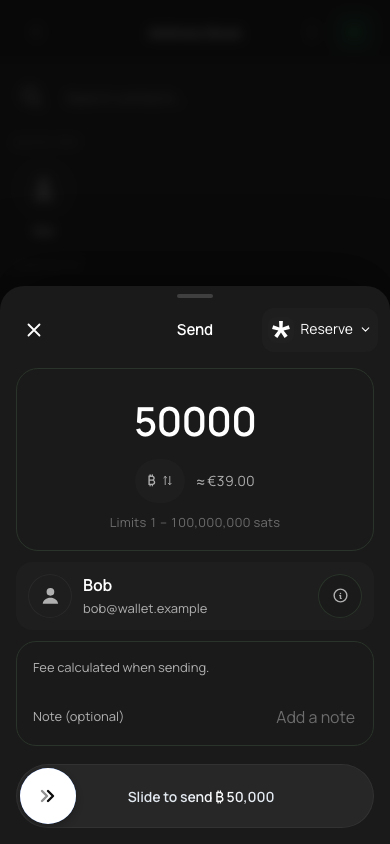
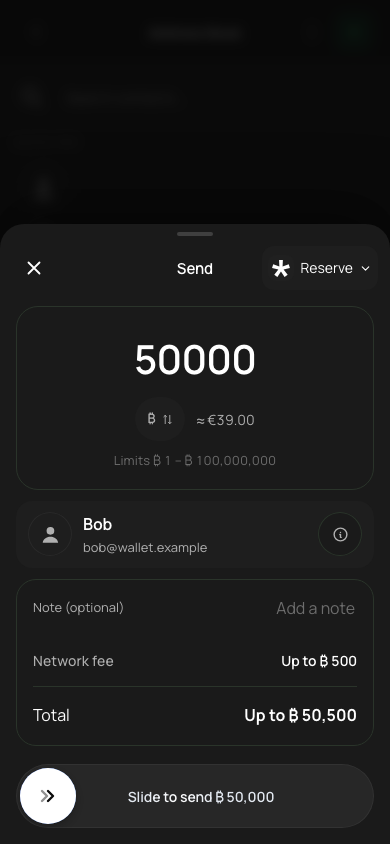
docs(payments): the review's fee, destination and wallet choice as they now behave
docs/PAYMENT_PREPARATION.md describes the fee slot and total by what is
known, the address row, the plain-word details, the one-tap wallet choice,
the rows held while a payment is made ready and the compact form above a
keyboard. The captures of the payment sheet and of payment preparation
that these changes touch are taken again from the current app.

diff --git a/docs/PAYMENT_PREPARATION.md b/docs/PAYMENT_PREPARATION.md
@@ -8,17 +8,29 @@ The design follows Apple’s guidance for [typography](https://developer.apple.c
 
 ## Shared payment review
 
-Scanned, pasted and contact payments use one review sheet. The header contains an icon for closing the sheet (a chevron when returning from a child view), Send and a wallet selector sized to its contents. The amount leads in its own card, with its denomination/lock and fiat conversion centered together immediately below it. Fees, optional note and total share one summary card above the existing Send or slide-to-send action. Anonymous recipients remain **Bitcoin payment**, using the original orange Bitcoin logo; saved contacts keep their names and avatars. A matched business uses its logo, with its name and verification available through Payment details. The default screen shows the recipient and, when useful, a readable address. Protocol labels and badges, including Lightning bolts, stay out of the recipient card. Payment types, networks and encoded destinations are available through the info button in Payment details; the amount and recipient carry the visual emphasis.
+Scanned, pasted and contact payments use one review sheet. The header contains an icon for closing the sheet (a chevron when returning from a child view), Send and a wallet selector sized to its contents. The amount leads in its own card, with its denomination/lock and fiat conversion centered together immediately below it. The optional note, the fee and the total share one summary card above the existing Send or slide-to-send action: the note first, then the fee with the total directly under it. Anonymous recipients remain **Bitcoin payment**, using the original orange Bitcoin logo; saved contacts keep their names and avatars. A matched business uses its logo, with its name and verification available through Payment details. The default screen shows the recipient and, when useful, a readable address: a payment address in full, and a pasted Bitcoin, Spark or Arkade address by its first and last characters, since that is how a person compares it before an irreversible send. Encoded requests (invoices, payment links) name nothing a person can compare, so they stay in Payment details. Protocol labels and badges, including Lightning bolts, stay out of the recipient card; the amount and recipient carry the visual emphasis.
 
 Amount entry respects locale decimal separators and validates grouping before conversion. Fixed amounts use grouped presentation without changing their canonical satoshis. BTC entry converts decimal digits exactly, including 0.00000029 BTC → 29 sats. The amount, fees, total and slide confirmation use the same denomination preference. Invalid or ambiguous input remains editable with Send disabled.
 
-Wallet selection and **Payment details** are child views inside that same sheet. The wallet list includes names, types, balances, the selected state and reasons a wallet cannot pay. Details contains the full payment request/address, Copy, the payment type/network, message and useful metadata. Returning keeps the amount, denomination, comment and selected wallet. The exact signed Spark invoice is kept separately from its durable recipient address.
+Wallet selection and **Payment details** are child views inside that same sheet. The wallet list includes names, types, balances, the paying wallet's mark and reasons a wallet cannot pay. One tap on a wallet that can pay chooses it for this payment and returns to the review; a wallet that cannot pay keeps its reason in its row and a tap on it changes nothing. A balance that is still being read pulses in its row. Details contains the full destination with Copy, named in plain words by its own row (Payment request, Payment link, Payment address or Address), the message and useful metadata. A network is named only where it decides what a person can do: Spark, Arkade, and Bitcoin for a payment on the Bitcoin network itself. Returning keeps the amount, denomination, comment and selected wallet. The exact signed Spark invoice is kept separately from its durable recipient address.
 
 **Bitcoin on-chain speed selection and the SDK fee breakdown stay directly visible on the main payment screen.** The existing fee-selection UI is unchanged. The main sheet remains the confirmation step; fixed requests stay locked and existing send/slide thresholds remain in place.
 
-Numeric fees and totals are shown only for valid SDK-prepared quotes. Native Spark zero fees are confirmed by an SDK prepare; the existing zero-fee execution guard remains. Percentage guesses and execution caps are not displayed as actual fees. When a provider cannot quote in advance, the sheet says “Fee calculated when sending.” and omits a numerical fee/total. Amountless Lightning invoices are quoted for the entered amount. The reviewed quote is retained through submission rather than being reset by amount/metadata watchers. Confirmation waits while an available SDK quote is being fetched; an unavailable fee is explicitly identified when preparation finishes. Quote ownership prevents old wallet/amount/address responses or errors from replacing the current quote; incomplete SDK on-chain quotes are rejected before mapping.
+What a payment costs is said before it is confirmed, in one fee slot with the total under it:
 
-The header and action stay outside the scrolling body. Mobile visual-viewport handling keeps the controls above a keyboard without shrinking content during pinch zoom.
+| What is known | Network fee | Total |
+|---|---|---|
+| A valid SDK-prepared quote | the fee | amount plus fee |
+| A limit the payment is held to (a Spark wallet paying a payment address or a payment link, whose invoice exists only after the confirm) | Up to the limit | Up to amount plus limit |
+| A transfer between two addresses of the same kind (Spark confirmed by an SDK prepare, Arkade to Arkade) | Free · instant | the amount |
+| Nothing beforehand (a wallet that cannot quote) | “Fee calculated when sending.” | the amount “+ fee” |
+| A quote on its way, or the payment still being made ready | a placeholder in the same slot | a placeholder |
+
+A percentage guess is never shown as a number, and a fee that comes later is named, never added into the sum. The slot and the total keep their place through all of these states, so nothing below them moves when a quote lands. The existing zero-fee execution guard remains.
+
+A contact payment that is still being made ready already shows the rows of the ready review with their values still to come: the limits line under the amount, the note row for a payment address, the fee and the total. The commit control's place says “Getting ready to pay…” and there is nothing to press yet. The sheet therefore keeps its height when the payment is ready; only a payment address that takes no note gives its held row back. Amountless Lightning invoices are quoted for the entered amount. The reviewed quote is retained through submission rather than being reset by amount/metadata watchers. Confirmation waits while an available SDK quote is being fetched; an unavailable fee is explicitly identified when preparation finishes. Quote ownership prevents old wallet/amount/address responses or errors from replacing the current quote; incomplete SDK on-chain quotes are rejected before mapping.
+
+The header and action stay outside the scrolling body. Mobile visual-viewport handling keeps the controls above a keyboard without shrinking content during pinch zoom; it listens only while the sheet is open. With the keyboard up the review takes a compact form (the same rows with less air), so the amount, the recipient, the fee and the total all stay in view above it.
 
 ## Header navigation
 
